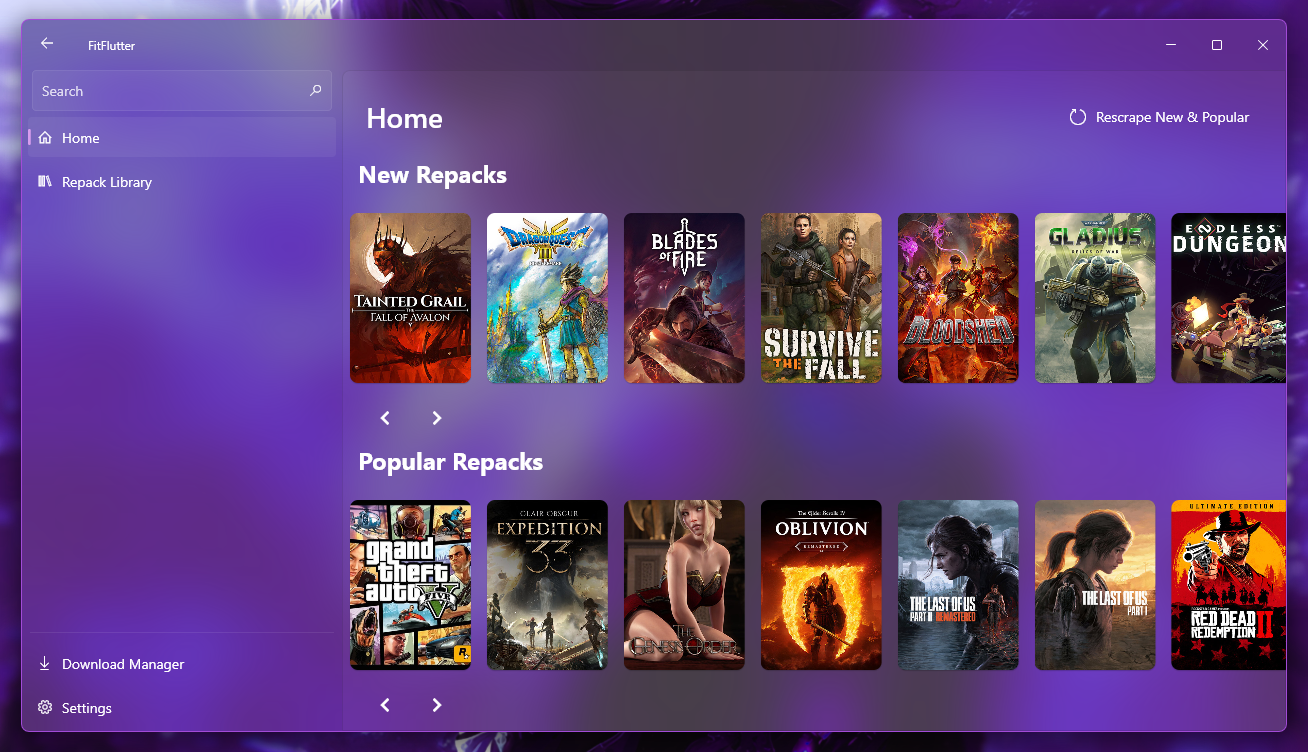
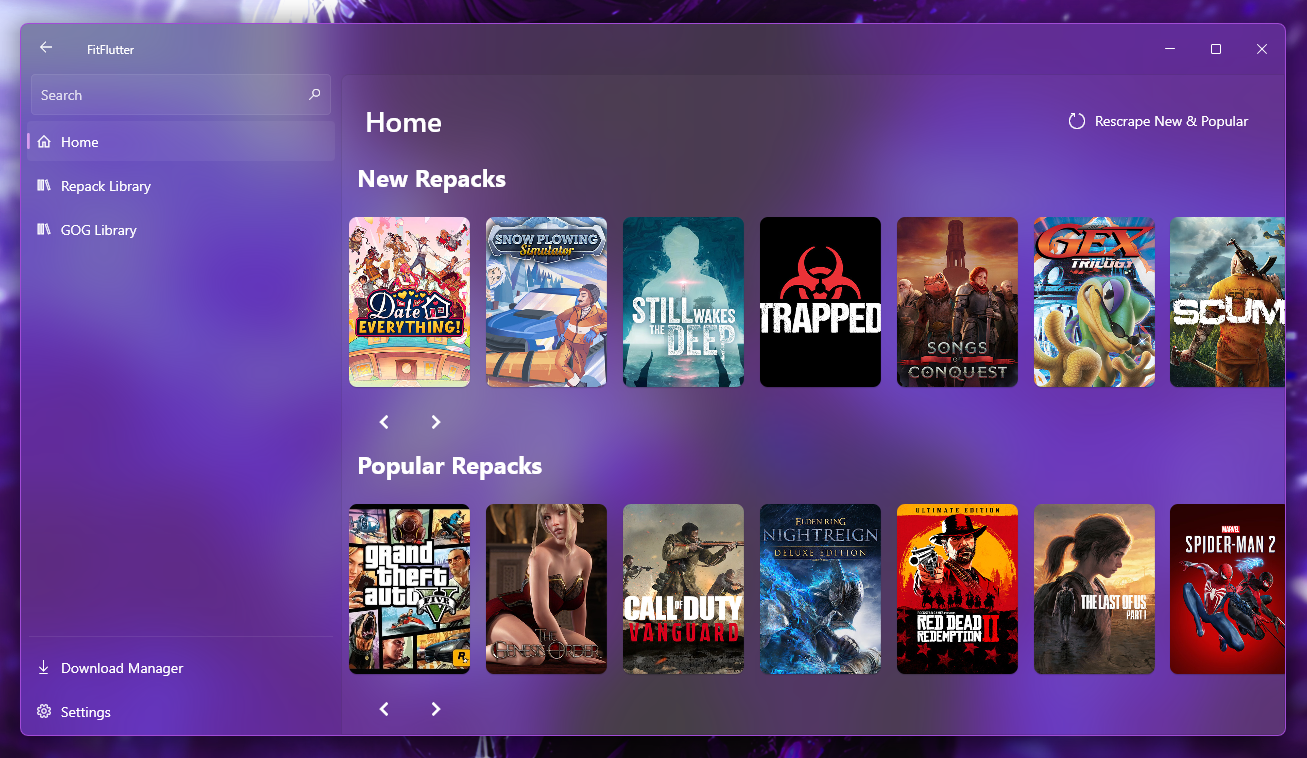
updated readme

diff --git a/README.md b/README.md
@@ -27,7 +27,7 @@ This project was created for educational purposes to enhance my skills in Flutte
 
 ## 📸 Screenshots
 
-![Home Page](assets/readme/1.png?raw=true)![Repack Details](assets/readme/2.png?raw=true)![Repack Library](assets/readme/3.png?raw=true)![Download Manager](assets/readme/4.png?raw=true)
+![Home Page](assets/readme/1.png?raw=true)![Repack Details](assets/readme/2.png?raw=true)![Repack Library](assets/readme/3.png?raw=true)![GOG Library](assets/readme/4.png?raw=true)![Download Manager](assets/readme/5.png?raw=true)
 
 ## 🚀 Roadmap
 
